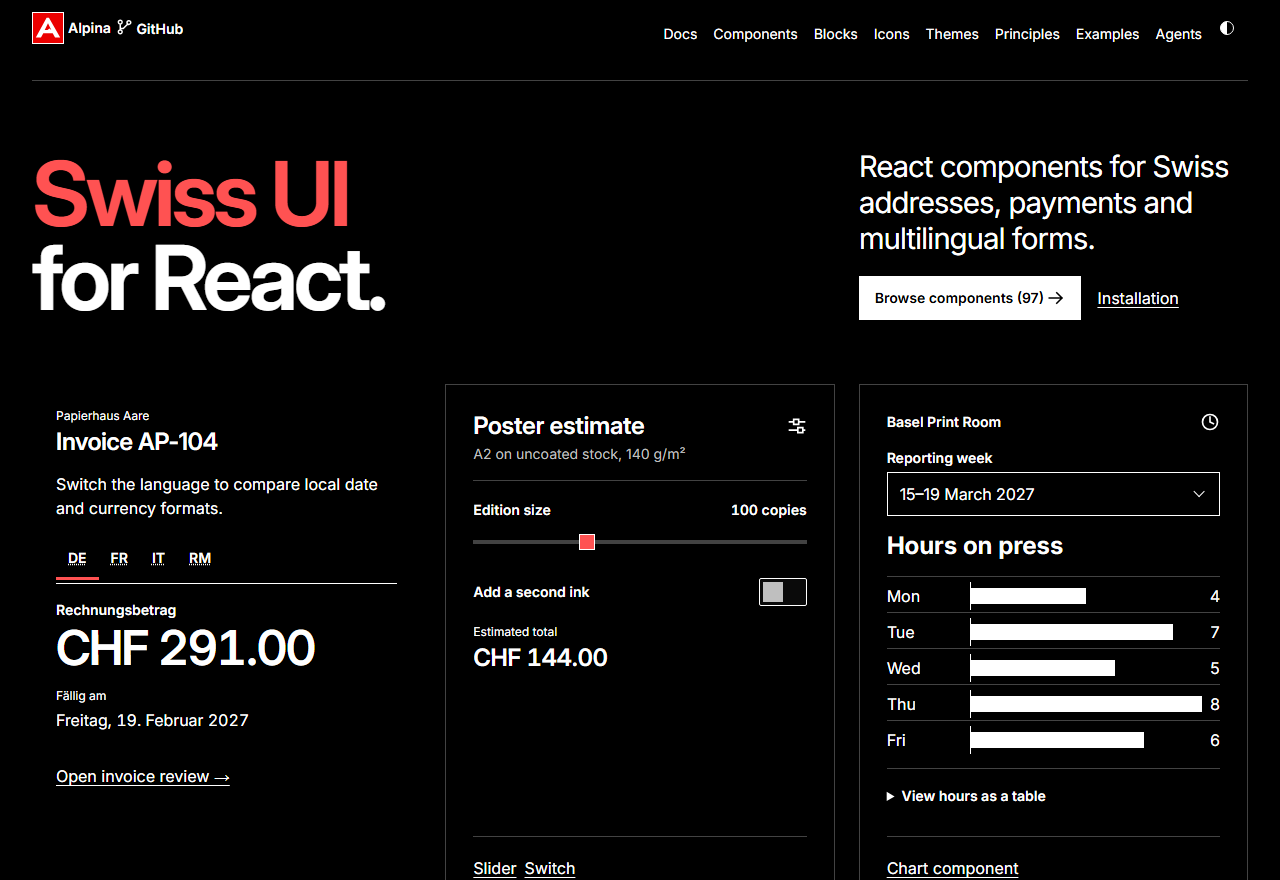
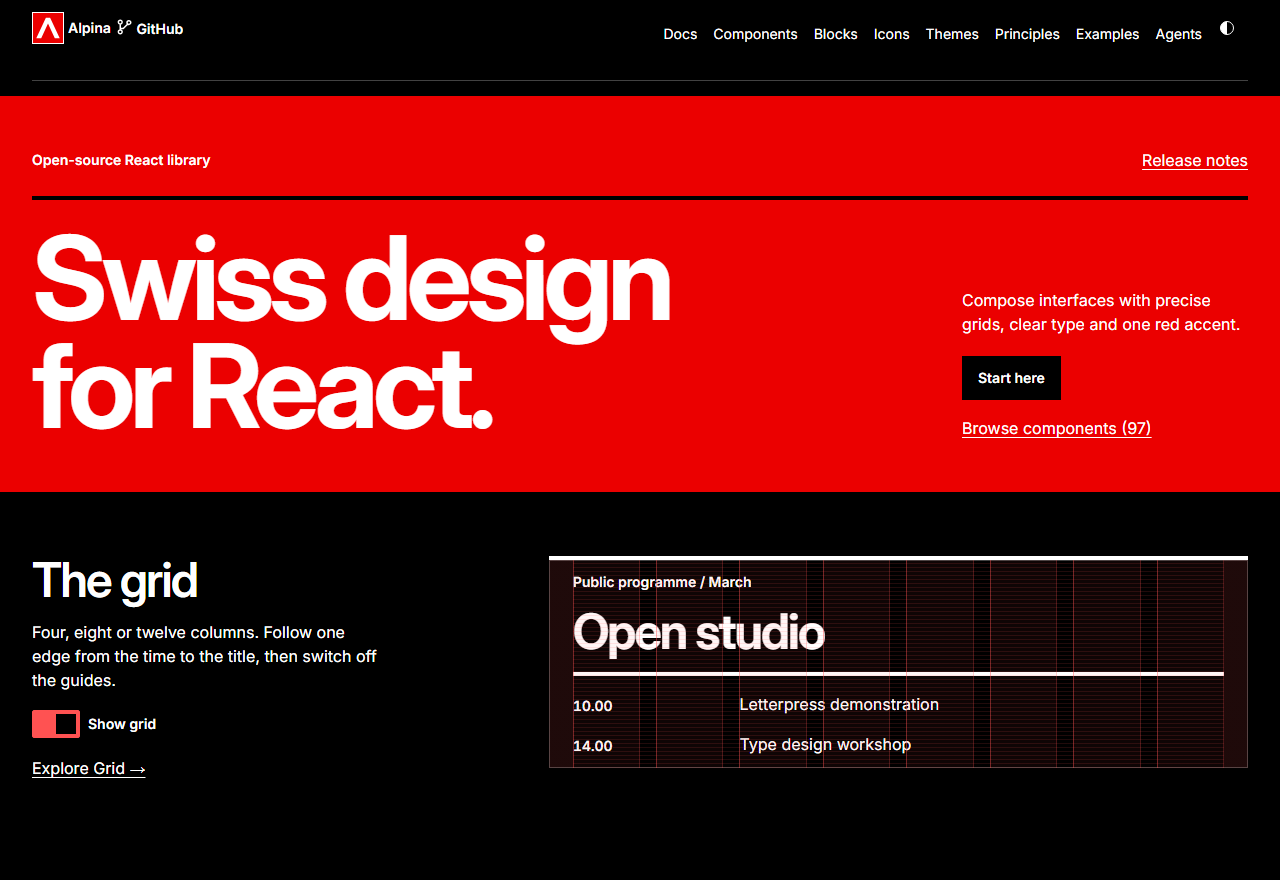
Proof the cover at four widths and capture the live first screen for sharing

diff --git a/web/pages.tsx b/web/pages.tsx
@@ -83,17 +83,17 @@ export function Landing({ version, count, queue, command, installation }: { vers
   return <>
     <Masthead current="home" />
     <PageRegion as="main" id="content" tabIndex={-1}>
-      <Grid as="section" width="site" space="cover" align="end" surface="accent" entrance="sequence" aria-labelledby="home-title">
+      <Grid as="section" width="site" space="cover" align="end" surface="accent" data-al-theme="light" entrance="sequence" aria-labelledby="home-title">
         <GridItem><Stack direction="row" justify="space-between" gap={2}>
-          <Typography variant="label">Alpina UI / React component library</Typography>
-          <TextLink href="/docs/guides/release/">v{version}</TextLink>
+          <Typography variant="label">Open-source React library</Typography>
+          <TextLink href="/docs/guides/release/">Release notes</TextLink>
         </Stack></GridItem>
         <GridItem><Separator weight="section" /></GridItem>
         <GridItem medium={5} large={8}>
           <Typography as="h1" variant="masthead" id="home-title">Swiss design<br /> for React.</Typography>
         </GridItem>
         <GridItem medium={3} large={3} start={{ large: 10 }}><Stack gap={5} align="start">
-          <Typography>Open-source components built on a column grid, a measured type scale and one red accent.</Typography>
+          <Typography>Compose interfaces with precise grids, clear type and one red accent.</Typography>
           <Stack direction="row" gap={4}>
             <TextLink variant="action" href="/start-here/">Start here</TextLink>
             <TextLink href="/docs/components/">Browse components ({count})</TextLink>

diff --git a/src/ui/grid.css b/src/ui/grid.css
@@ -7,7 +7,7 @@
 .al-layout[data-space='cover'] { padding-block: var(--al-space-8); padding-block: round(nearest, clamp(var(--al-space-8), 4vw, 4rem), var(--al-unit)); }
 .al-layout[data-surface='paper'] { background: var(--al-bg); color: var(--al-ink); }
 .al-layout[data-surface='ink'] { background: var(--al-ink); color: var(--al-bg); }
-.al-layout[data-surface='accent'] { background: var(--al-accent); color: var(--al-on-accent); }
+.al-layout[data-surface='accent'] { background: var(--al-accent); color: var(--al-on-accent); --_al-link-hover: var(--al-on-accent); }
 .al-grid {
   --al-cols: 4;
   --al-gutter: calc(var(--al-unit, 0.25rem) * 3);

diff --git a/src/ui/button.css b/src/ui/button.css
@@ -86,6 +86,12 @@
   .al-button {
     border-color: ButtonText;
   }
+  .al-button:is([data-variant='primary'], [data-variant='danger']):not(:disabled, [aria-disabled='true']) {
+    /* Chromium otherwise paints a text backplate over the system-colour label. */
+    forced-color-adjust: none;
+    background: Highlight;
+    color: HighlightText;
+  }
   .al-button:is(:disabled, [aria-disabled='true']) {
     color: GrayText;
     border-color: GrayText;

diff --git a/src/portal/text-link.css b/src/portal/text-link.css
@@ -6,7 +6,7 @@
   overflow-wrap: anywhere;
 }
 .al-text-link:hover {
-  color: var(--al-accent);
+  color: var(--_al-link-hover, var(--al-accent));
 }
 .al-text-link:focus-visible {
   outline: 2px solid currentColor;
@@ -66,5 +66,3 @@
   letter-spacing: -0.07em;
   white-space: nowrap;
 }
-
-.al-layout[data-surface='accent'] .al-text-link:not([data-variant='action']):hover { color: inherit; text-decoration-thickness: 2px; }

diff --git a/src/theme.css b/src/theme.css
@@ -32,6 +32,7 @@ body[data-al-page] > footer:last-child { margin-block-start: auto; }
   --al-hover: color-mix(in srgb, var(--al-ink) 9%, var(--al-bg));
   --al-accent: #eb0000;
   --al-on-accent: #fff;
+  --_al-link-hover: var(--al-accent);
   --al-accent-hover: #000;
   --al-danger: var(--al-accent);
   --al-success: var(--al-ink);
